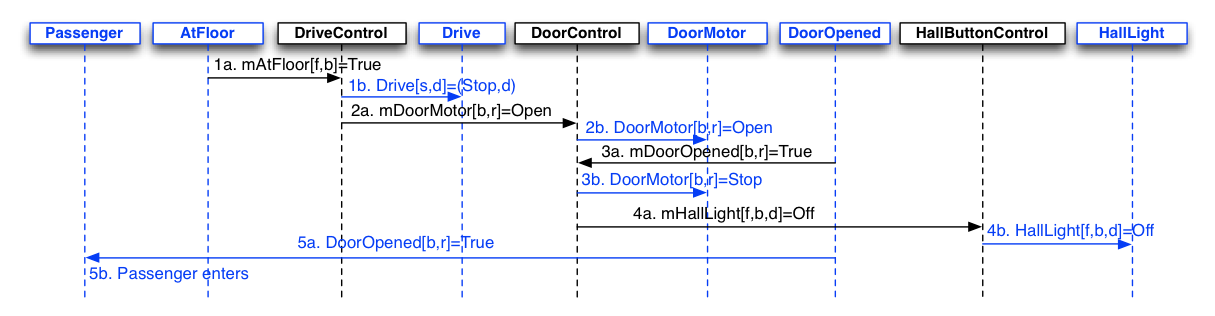
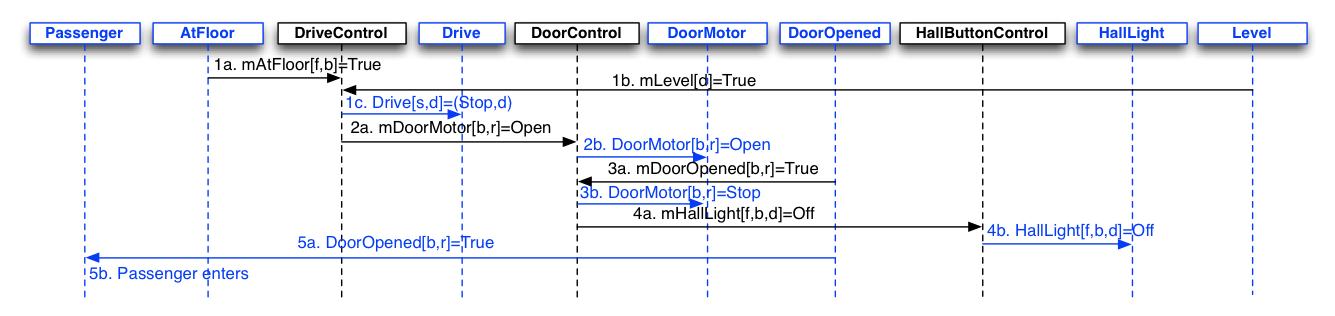
fixed level for 3a, peer review for 4a,5a,5b

diff --git a/portfolio/logs/peerreviewlog.html b/portfolio/logs/peerreviewlog.html
@@ -99,11 +99,11 @@
           </td>
           <td style="vertical-align: top;">9/16/2012<br>
           </td>
-          <td style="vertical-align: top;">N/A<br>
+          <td style="vertical-align: top;">SD4A,SD5A,SD5B<br>
           </td>
           <td style="vertical-align: top;">jtiu<br>
           </td>
-          <td style="vertical-align: top;">0<br>
+          <td style="vertical-align: top;">2<br>
           </td>
           <td style="vertical-align: top;"><a href="peer_review_4.xls">peer_review_4.xls</a><br>
           </td>

diff --git a/portfolio/scen_sd/scen_sd.html b/portfolio/scen_sd/scen_sd.html
@@ -266,7 +266,7 @@
       </ul>
       <h3> Sequence Diagram: </h3>
       <p> <a href="sd3a.png"><img src="sd3a.png" alt="3A"
-            style="border: 0px solid ; width: 1215px; height: 316px;"></a>
+            style="border: 0px solid ; width: 1335px; height: 316px;"></a>
       </p>
       <div align="center">
         <hr align="center" size="2" width="100%"> </div>
